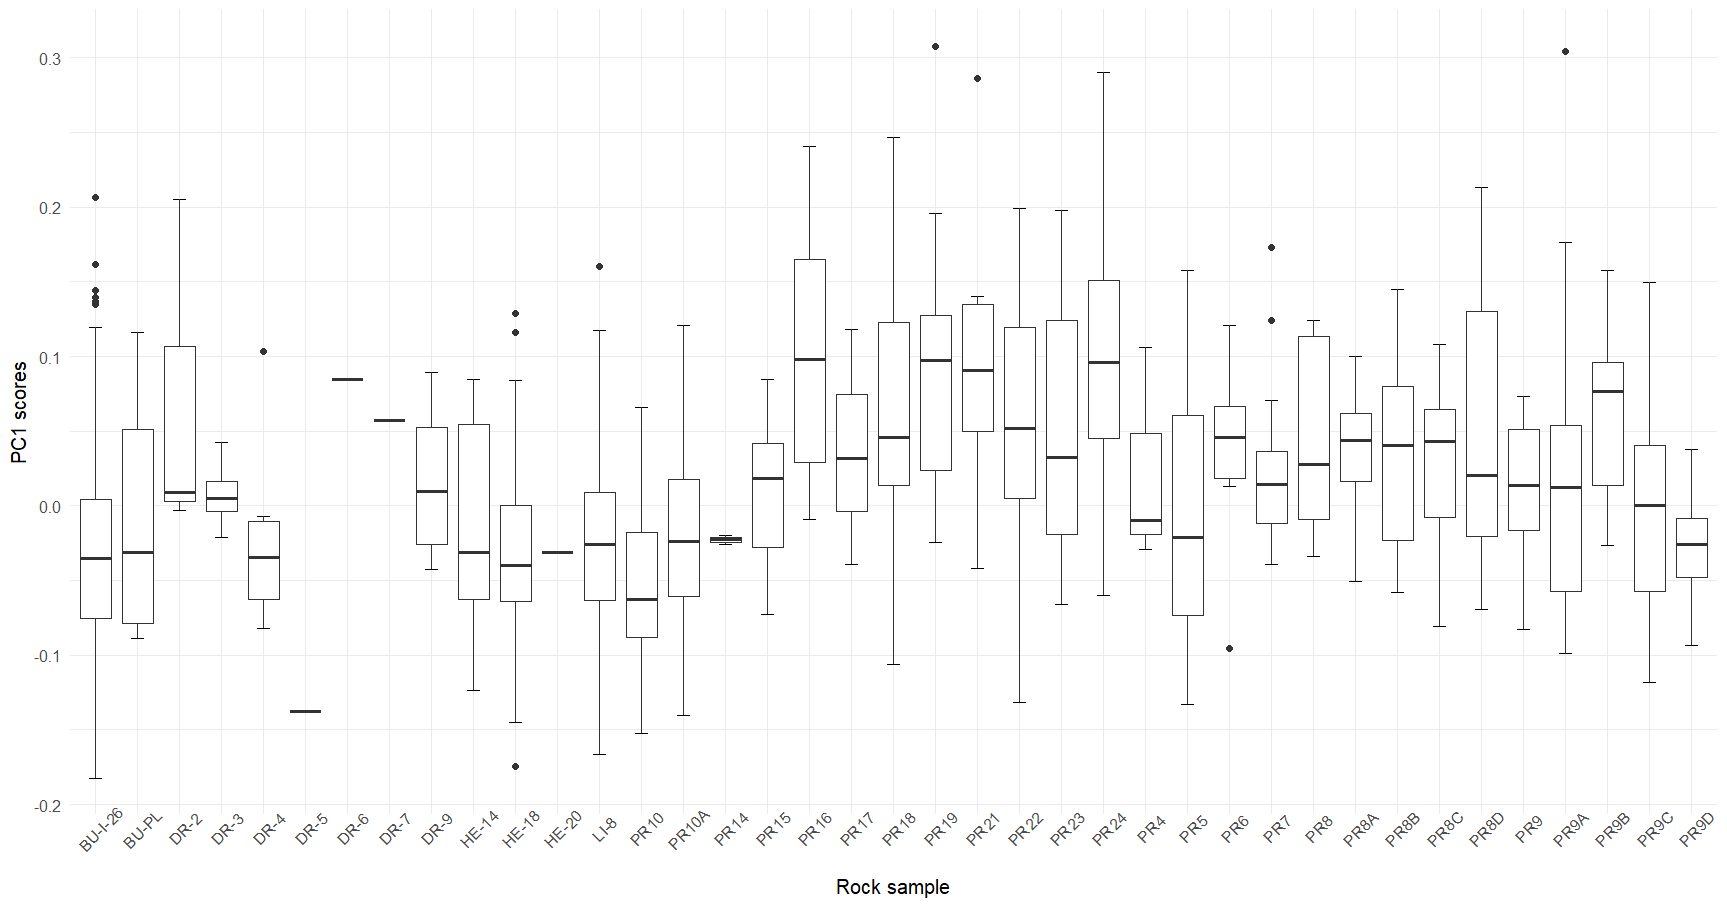
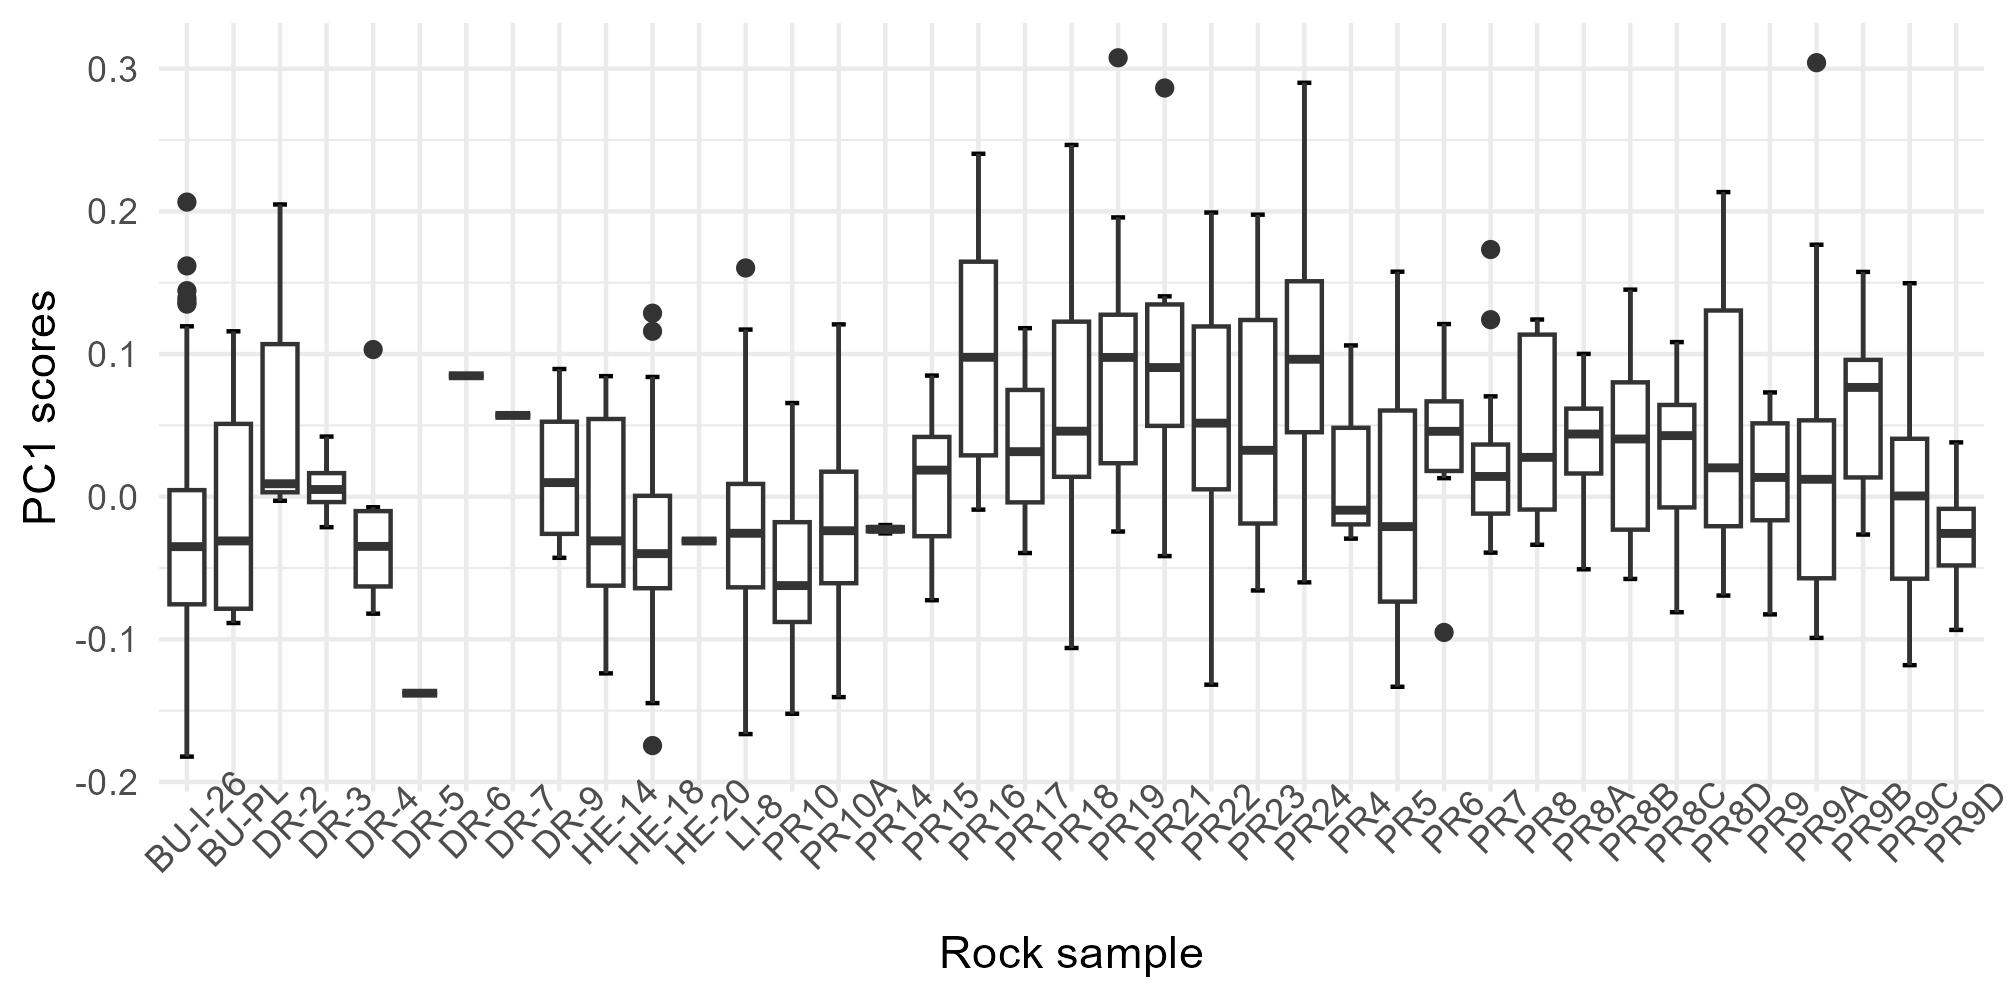
Corrections/cleaning

diff --git a/README.md b/README.md
@@ -1,6 +1,6 @@
-# Geometric morphometrics of *Pseudofurnishius murcianus*
+# Morphological plasticity of *Pseudofurnishius murcianus*
 
-Code and data supporting the manuscript "Geometric morphometric variation of conodont species Pseudofurnishius murcianus in the Triassic Sephardic Province"
+Code and data supporting the manuscript "Morphological plasticity of the Middle Triassic conodont *Pseudofurnishius murcianus* in the Western Tethys"
 
 ## Authors
 
@@ -12,14 +12,20 @@ Emilia Jarochowska
 e.b.jarochowska@uu.nl
 
 Luka Gale 
+luka.gale@geo-zs.si
+luka.gale@ntf.uni-lj.si
 
 Tea Kolar-Jurkovšek 
+tea.kolar-jurkovsek@geo-zs.si
 
 Bogdan Jurkovšek
 
 Gonçalo Silvério
+gsilverio@uevora.pt
 
 Carlos Martínez-Pérez 
+carlos.martinez-perez@bristol.ac.uk
+carlos.martinez-perez@uv.es
 
 ## License 
 
